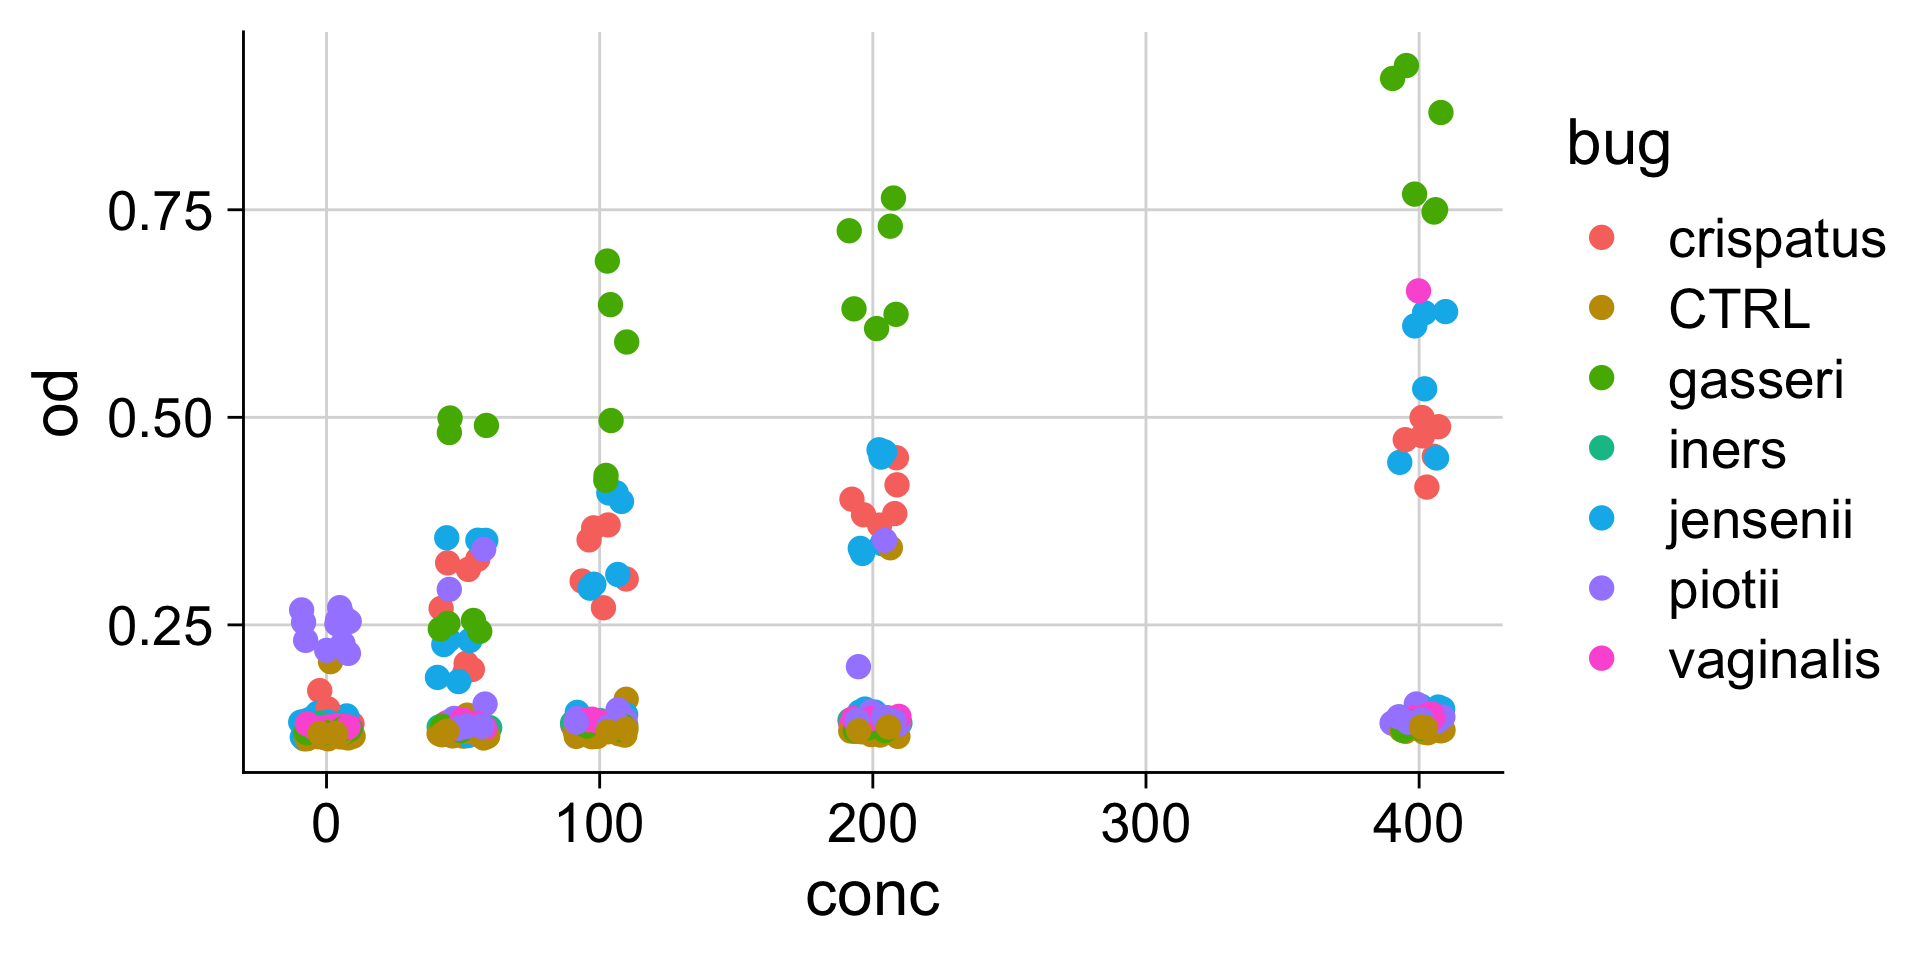
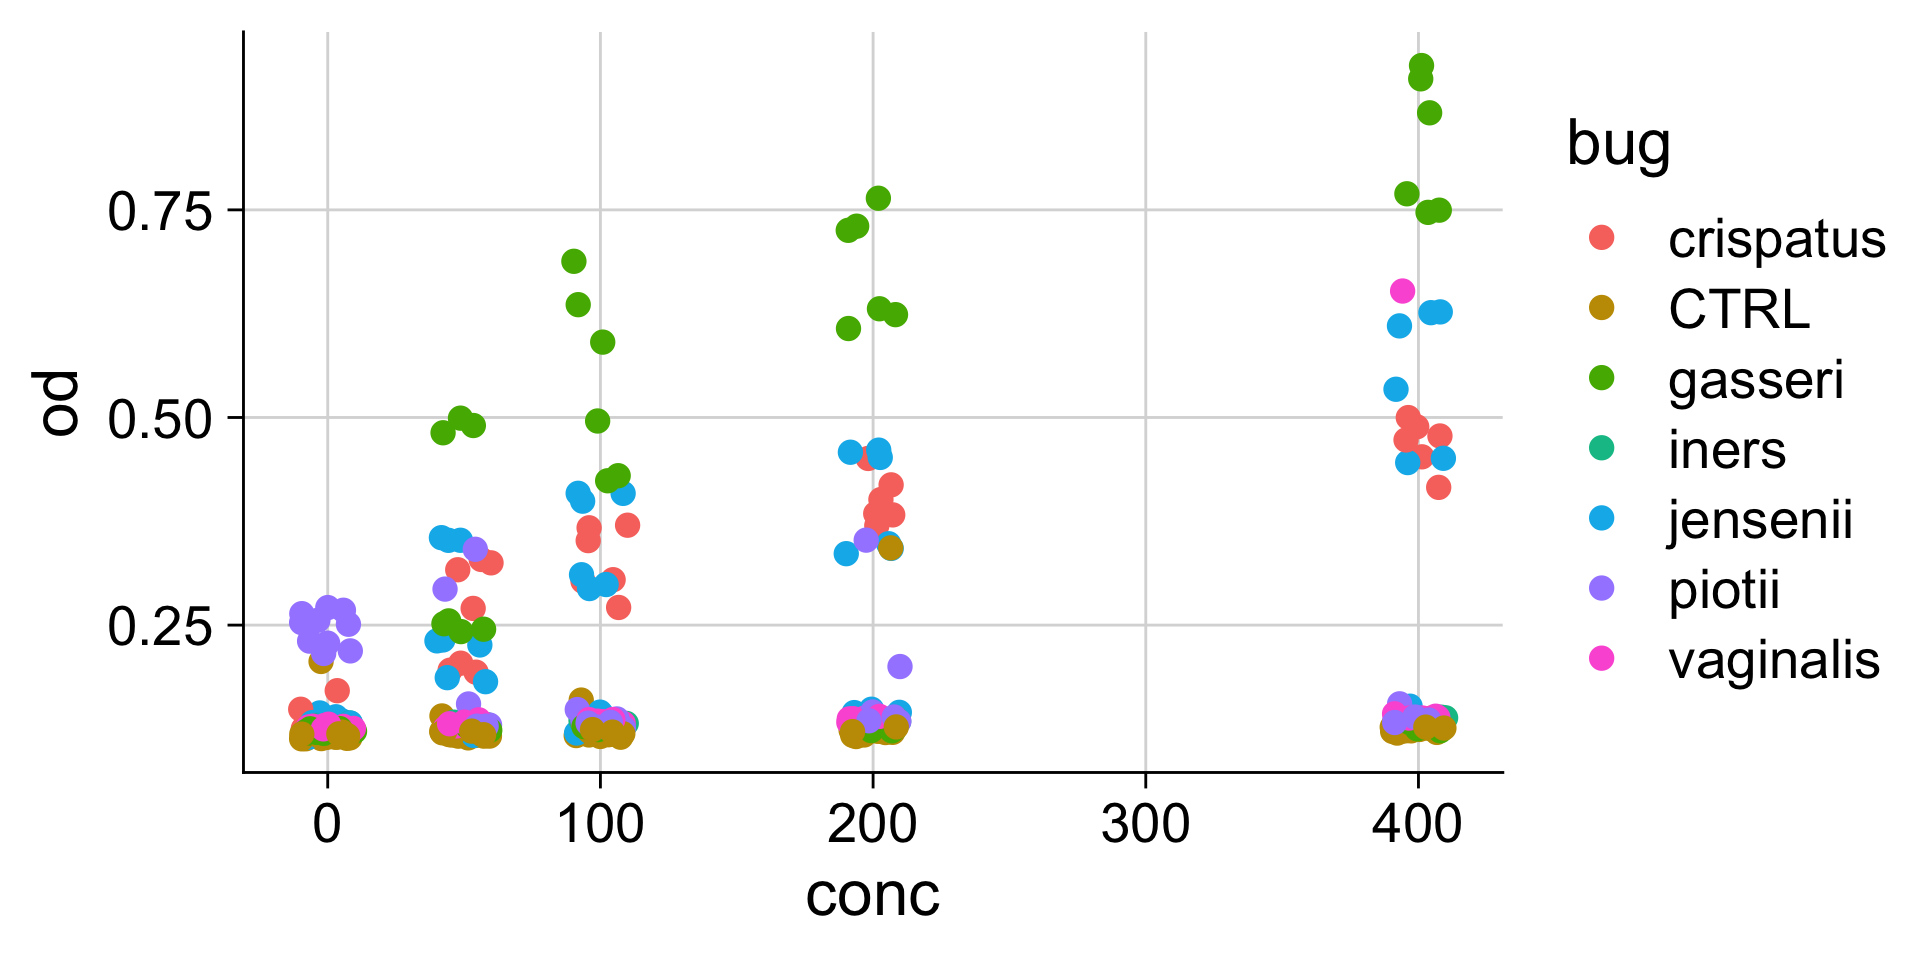
Built site for gh-pages

diff --git a/materials/archive/r-tutorial/slides.html b/materials/archive/r-tutorial/slides.html
@@ -656,7 +656,7 @@
 </ul>
 <div class="cell">
 <div class="cell-output-display">
-<div class="countdown" id="timer_8fb4dae4" data-update-every="1" data-play-sound="true" tabindex="0" style="bottom:0;left:0;">
+<div class="countdown" id="timer_577c3893" data-update-every="1" data-play-sound="true" tabindex="0" style="bottom:0;left:0;">
 <div class="countdown-controls"><button class="countdown-bump-down">−</button><button class="countdown-bump-up">+</button></div>
 <code class="countdown-time"><span class="countdown-digits minutes">05</span><span class="countdown-digits colon">:</span><span class="countdown-digits seconds">00</span></code>
 </div>
@@ -1163,11 +1163,11 @@
 <pre><code># A tibble: 5 × 6
   plate_id row   column bug       condition  conc
      &lt;dbl&gt; &lt;chr&gt;  &lt;dbl&gt; &lt;chr&gt;     &lt;chr&gt;     &lt;dbl&gt;
-1        2 g         12 CTRL      LNA          50
-2        1 b          5 jensenii  OA          400
-3        4 c          5 vaginalis VCA          50
-4        1 g         10 iners     VCA         200
-5        4 c         11 CTRL      VCA          50</code></pre>
+1        4 f          8 piotii    LNA         100
+2        3 g          4 gasseri   VCA         200
+3        4 h          5 vaginalis CTRL          0
+4        1 c         10 iners     OA          200
+5        3 d          6 vaginalis OA          100</code></pre>
 </div>
 </div>
 </section>
@@ -1183,11 +1183,11 @@
 <pre><code># A tibble: 5 × 6
   plate_id row   column bug       condition  conc
      &lt;dbl&gt; &lt;chr&gt;  &lt;dbl&gt; &lt;chr&gt;     &lt;chr&gt;     &lt;dbl&gt;
-1        4 d          5 vaginalis LNA         400
-2        3 d         11 CTRL      OA          100
-3        2 c          2 crispatus VCA          50
-4        3 e          1 CTRL      OA           50
-5        4 a          5 vaginalis CTRL          0</code></pre>
+1        1 e          1 CTRL      OA           50
+2        4 b         11 CTRL      VCA         100
+3        2 g          4 crispatus LNA          50
+4        3 h          7 vaginalis CTRL          0
+5        1 b          1 CTRL      OA          400</code></pre>
 </div>
 </div>
 </section>
@@ -1204,11 +1204,11 @@
 <pre><code># A tibble: 5 × 7
   plate_id row   column bug       condition  conc conc_mM
      &lt;dbl&gt; &lt;chr&gt;  &lt;dbl&gt; &lt;chr&gt;     &lt;chr&gt;     &lt;dbl&gt;   &lt;dbl&gt;
-1        4 c          1 CTRL      VCA          50    0.05
-2        3 c         11 CTRL      OA          200    0.2 
-3        1 b          4 crispatus OA          400    0.4 
-4        2 d          7 jensenii  LNA         400    0.4 
-5        3 f         10 piotii    VCA         400    0.4 </code></pre>
+1        2 c          7 jensenii  VCA          50    0.05
+2        3 g         10 piotii    VCA         200    0.2 
+3        1 e          4 crispatus OA           50    0.05
+4        3 h         10 piotii    CTRL          0    0   
+5        2 f         12 CTRL      LNA         100    0.1 </code></pre>
 </div>
 </div>
 </section>
@@ -1223,11 +1223,11 @@
 <pre><code># A tibble: 5 × 8
   plate_id row   column bug       condition  conc conc_mM conc_nM
      &lt;dbl&gt; &lt;chr&gt;  &lt;dbl&gt; &lt;chr&gt;     &lt;chr&gt;     &lt;dbl&gt;   &lt;dbl&gt;   &lt;dbl&gt;
-1        1 a          3 crispatus CTRL          0     0         0
-2        1 g          6 jensenii  VCA         200     0.2  200000
-3        4 a          7 vaginalis CTRL          0     0         0
-4        2 e          8 iners     LNA         200     0.2  200000
-5        4 a          1 CTRL      CTRL          0     0         0</code></pre>
+1        1 b          3 crispatus OA          400    0.4   400000
+2        1 g          4 crispatus VCA         200    0.2   200000
+3        1 d          7 jensenii  OA          100    0.1   100000
+4        1 g          9 iners     VCA         200    0.2   200000
+5        4 g          1 CTRL      LNA          50    0.05   50000</code></pre>
 </div>
 </div>
 </section>
@@ -1235,7 +1235,7 @@
 <h2>Your turn to do some data wrangling</h2>
 <div class="cell">
 <div class="cell-output-display">
-<div class="countdown" id="timer_e2ef744a" data-update-every="1" tabindex="0" style="bottom:0;left:0;">
+<div class="countdown" id="timer_01814324" data-update-every="1" tabindex="0" style="bottom:0;left:0;">
 <div class="countdown-controls"><button class="countdown-bump-down">−</button><button class="countdown-bump-up">+</button></div>
 <code class="countdown-time"><span class="countdown-digits minutes">15</span><span class="countdown-digits colon">:</span><span class="countdown-digits seconds">00</span></code>
 </div>
@@ -1254,7 +1254,7 @@
 <h2>Break</h2>
 <div class="cell">
 <div class="cell-output-display">
-<div class="countdown" id="timer_2b22bc86" data-update-every="1" tabindex="0" style="bottom:0;left:0;font-size:12rem;">
+<div class="countdown" id="timer_65bc6c10" data-update-every="1" tabindex="0" style="bottom:0;left:0;font-size:12rem;">
 <div class="countdown-controls"><button class="countdown-bump-down">−</button><button class="countdown-bump-up">+</button></div>
 <code class="countdown-time"><span class="countdown-digits minutes">15</span><span class="countdown-digits colon">:</span><span class="countdown-digits seconds">00</span></code>
 </div>
@@ -1938,7 +1938,7 @@
 <h2>Group Pen and Paper exercise</h2>
 <div class="cell">
 <div class="cell-output-display">
-<div class="countdown" id="timer_2303a6da" data-update-every="1" tabindex="0" style="bottom:0;left:0;">
+<div class="countdown" id="timer_96bdaa38" data-update-every="1" tabindex="0" style="bottom:0;left:0;">
 <div class="countdown-controls"><button class="countdown-bump-down">−</button><button class="countdown-bump-up">+</button></div>
 <code class="countdown-time"><span class="countdown-digits minutes">10</span><span class="countdown-digits colon">:</span><span class="countdown-digits seconds">00</span></code>
 </div>

diff --git a/materials/r-tutorial/slides.html b/materials/r-tutorial/slides.html
@@ -543,7 +543,7 @@
 <span id="cb6-11"><a></a><span class="fu">c</span>(<span class="st">"Mon"</span>, <span class="st">"Tue"</span>, <span class="st">"Wed"</span>, <span class="st">"Thu"</span>, <span class="st">"Fri"</span>, <span class="st">"Sat"</span>, <span class="st">"Sun"</span>) <span class="sc">%&gt;%</span> <span class="fu">as_factor</span>()</span></code><button title="Copy to Clipboard" class="code-copy-button"><i class="bi"></i></button></pre></div>
 <div class="cell">
 <div class="cell-output-display">
-<div class="countdown" id="timer_6d25fe1f" data-update-every="1" data-play-sound="true" tabindex="0" style="bottom:0;left:0;">
+<div class="countdown" id="timer_309b83fa" data-update-every="1" data-play-sound="true" tabindex="0" style="bottom:0;left:0;">
 <div class="countdown-controls"><button class="countdown-bump-down">−</button><button class="countdown-bump-up">+</button></div>
 <code class="countdown-time"><span class="countdown-digits minutes">05</span><span class="countdown-digits colon">:</span><span class="countdown-digits seconds">00</span></code>
 </div>
@@ -1116,7 +1116,7 @@
 <p>That’s enough slides for now time to try for yourself! Go to <a href="index.html">the module</a> and go to Exercise 1.</p>
 <div class="cell">
 <div class="cell-output-display">
-<div class="countdown" id="timer_3caad561" data-update-every="1" tabindex="0" style="right:0;bottom:0;">
+<div class="countdown" id="timer_a258bec8" data-update-every="1" tabindex="0" style="right:0;bottom:0;">
 <div class="countdown-controls"><button class="countdown-bump-down">−</button><button class="countdown-bump-up">+</button></div>
 <code class="countdown-time"><span class="countdown-digits minutes">20</span><span class="countdown-digits colon">:</span><span class="countdown-digits seconds">00</span></code>
 </div>
@@ -1132,7 +1132,7 @@
 <h2>Exercise 2</h2>
 <div class="cell">
 <div class="cell-output-display">
-<div class="countdown" id="timer_f61600be" data-update-every="1" tabindex="0" style="right:0;bottom:0;">
+<div class="countdown" id="timer_852beefa" data-update-every="1" tabindex="0" style="right:0;bottom:0;">
 <div class="countdown-controls"><button class="countdown-bump-down">−</button><button class="countdown-bump-up">+</button></div>
 <code class="countdown-time"><span class="countdown-digits minutes">30</span><span class="countdown-digits colon">:</span><span class="countdown-digits seconds">00</span></code>
 </div>
@@ -1469,7 +1469,7 @@ Table&nbsp;1: <code>02_visit_clinical_measurements_UKZN_workshop_2023.csv</code>
 <h2>Exercise</h2>
 <div class="cell">
 <div class="cell-output-display">
-<div class="countdown" id="timer_330a38b0" data-update-every="1" tabindex="0" style="right:0;bottom:0;">
+<div class="countdown" id="timer_ed3c9172" data-update-every="1" tabindex="0" style="right:0;bottom:0;">
 <div class="countdown-controls"><button class="countdown-bump-down">−</button><button class="countdown-bump-up">+</button></div>
 <code class="countdown-time"><span class="countdown-digits minutes">30</span><span class="countdown-digits colon">:</span><span class="countdown-digits seconds">00</span></code>
 </div>

diff --git a/materials/multiomics-primer/slides.html b/materials/multiomics-primer/slides.html
@@ -347,7 +347,7 @@
 </p>
 <div class="r-fit-text">
 <p>Workshop materials are here:</p>
-<p><a href="https://kwondry.github.io/documentation/multiomics-primer">https://kwondry.github.io/documentation/</a></p>
+<p><a href="https://kwondry.github.io/documentation/multiomics-primer">https://kwondry.github.io/documentation/multiomics-primer</a></p>
 </div>
 </section>
 <section id="section-1" class="slide level2" data-menu-item="Workshop Goals">
@@ -586,7 +586,7 @@
 </ul>
 <div class="cell">
 <div class="cell-output-display">
-<div class="countdown" id="timer_0b7a5e8e" data-update-every="1" data-play-sound="true" tabindex="0" style="bottom:0;left:0;">
+<div class="countdown" id="timer_3ac51193" data-update-every="1" data-play-sound="true" tabindex="0" style="bottom:0;left:0;">
 <div class="countdown-controls"><button class="countdown-bump-down">−</button><button class="countdown-bump-up">+</button></div>
 <code class="countdown-time"><span class="countdown-digits minutes">20</span><span class="countdown-digits colon">:</span><span class="countdown-digits seconds">00</span></code>
 </div>
@@ -603,7 +603,7 @@
 <p>One brave soul explain your partner’s project and why they want to integrate multiple ’omics datasets</p>
 <div class="cell">
 <div class="cell-output-display">
-<div class="countdown" id="timer_23c1b51b" data-update-every="1" data-play-sound="true" tabindex="0" style="bottom:0;left:0;">
+<div class="countdown" id="timer_36801913" data-update-every="1" data-play-sound="true" tabindex="0" style="bottom:0;left:0;">
 <div class="countdown-controls"><button class="countdown-bump-down">−</button><button class="countdown-bump-up">+</button></div>
 <code class="countdown-time"><span class="countdown-digits minutes">05</span><span class="countdown-digits colon">:</span><span class="countdown-digits seconds">00</span></code>
 </div>
